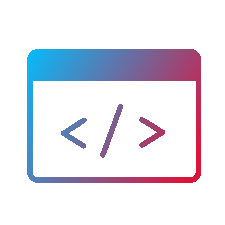
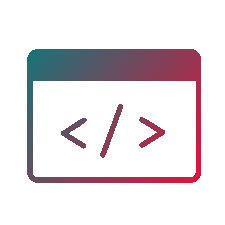
changed html gradient to match

diff --git a/index.html b/index.html
@@ -128,7 +128,7 @@
                     <ul class="service-list">
                         <li class="service-item">
                             <div class="service-icon-box">
-                                <img src="https://i.postimg.cc/4389jZkP/icon-design.png" alt="icon" width="40">
+                                <img src="https://github.com/Nuud1es/Nuud1es.github.io/blob/main/UnrealEngine.png?raw=true" alt="icon" width="60">
                             </div>  
 
                             <div class="service-content-box">
@@ -139,7 +139,7 @@
 
                         <li class="service-item">
                             <div class="service-icon-box">
-                                <img src="https://i.postimg.cc/ZqgqrqzG/icon-dev.png" alt="icon" width="40">
+                                <img src="https://github.com/Nuud1es/Nuud1es.github.io/blob/main/html.png?raw=true" alt="icon" width="40">
                             </div>
 
                             <div class="service-content-box">
@@ -150,7 +150,7 @@
 
                         <li class="service-item">
                             <div class="service-icon-box">
-                                <img src="https://i.postimg.cc/xjLdzYxZ/icon-app.png" alt="icon" width="40">
+                                <img src="https://github.com/Nuud1es/Nuud1es.github.io/blob/main/blender.png?raw=true" alt="icon" width="40">
                             </div>
 
                             <div class="service-content-box">
@@ -591,117 +591,23 @@
                         <li class="blog-post-item">
                             <a href="#">
                                     <figure class="blog-banner-box">
-                                        <img src="https://i.postimg.cc/DysCZrWs/blog-1.jpg" alt="Design conferences in 2024" loading="lazy">
+                                        <img src="https://github.com/Nuud1es/Nuud1es.github.io/blob/main/Blog1NewSite.png?raw=true" alt="Design conferences in 2024" loading="lazy">
                                     </figure>
 
                                 <div class="blog-content">
                                     <div class="blog-meta">
                                         <p class="blog-category">Design</p>
                                         <span class="dot"></span>
-                                        <time datetime="2024-02-23">Feb 23, 2024</time>
+                                        <time datetime="2024-02-23">Dec 05, 2024</time>
                                     </div>
 
-                                    <h3 class="h3 blog-item-title">Design conferences in 2024</h3>
-                                    <p class="blog-text">In 2024, several exciting design conferences are set to take place, offering opportunities for professionals and enthusiasts to connect, learn, and share innovative ideas.</p>
+                                    <h3 class="h3 blog-item-title">New website</h3>
+                                    <p class="blog-text">Welcome to the new website! I've decided to make a new one using the skill's i've developed using HTML and CSS, my old site is still live at sites.google.com/joerudling but won't be update. theres still some changes I would like to make, Im not overly happy with the Portfolio page but for now it shows what I have made</p>
                                 </div>
                             </a>
                         </li>
 
-                        <li class="blog-post-item">
-                            <a href="#">
-                                <figure class="blog-banner-box">
-                                    <img src="https://i.postimg.cc/QC7qFDMs/blog-2.jpg" alt="Best fonts every designer" loading="lazy">
-                                </figure>
-
-
-                                <div class="blog-content">
-                                    <div class="blog-meta">
-                                        <p class="blog-category">Design</p>
-                                        <span class="dot"></span>
-                                        <time datetime="2024-01-29">Jan 29, 2024</time>
-                                    </div>
-
-                                    <h3 class="h3 blog-item-title">Best fonts every designer</h3>
-                                    <p class="blog-text">When it comes to typography, choosing the right font is essential for effective design. In this article, I'll bring a brief overview of some of the best fonts that every designer should consider incorporating into their toolkit.</p>
-                                </div>
-                            </a>
-                        </li>
-
-                        <li class="blog-post-item">
-                            <a href="#">
-                                <figure class="blog-banner-box">
-                                    <img src="https://i.postimg.cc/W1T71QcL/blog-3.jpg" alt="Design digest #80" loading="lazy">
-                                </figure>
-
-                                <div class="blog-content">
-                                    <div class="blog-meta">
-                                        <p class="blog-category">Design</p>
-                                        <span class="dot"></span>
-                                        <time datetime="2023-12-20">Dec 20, 2023</time>
-                                    </div>
-
-                                    <h3 class="h3 blog-item-title">Design digest #80</h3>
-                                    <p class="blog-text">Hello, my friends. In this Design Digest, I'll show you a curated collection of the latest trends, insights, and innovations in the design world. This edition highlights key themes and discussions that are shaping the future of design.</p>
-                                </div>
-                            </a>
-                        </li>
-
-                        <li class="blog-post-item">
-                            <a href="#">
-                                <figure class="blog-banner-box">
-                                    <img src="https://i.postimg.cc/2S0n8yxh/blog-4.jpg" alt="2023 UI interactions" loading="lazy">
-                                </figure>
-
-                                <div class="blog-content">
-                                    <div class="blog-meta">
-                                        <p class="blog-category">Design</p>
-                                        <span class="dot"></span>
-                                        <time datetime="2023-11-29">Nov 29, 2023</time>
-                                    </div>
-
-                                    <h3 class="h3 blog-item-title">2023 UI interactions</h3>
-                                    <p class="blog-text">As we move into 2024, 2023 was marked by the rapidly evolution of the landscape of UI interactions, driven by advancements in technology and user expectations. Dive with me in this text to see the main areas changed in this year.</p>
-                                </div>
-                            </a>
-                        </li>
-
-                        <li class="blog-post-item">
-                            <a href="#">
-                                <figure class="blog-banner-box">
-                                    <img src="https://i.postimg.cc/YCCmVkw9/blog-5.jpg" alt="The forgotten art of spacing" loading="lazy">
-                                </figure>
-
-                                <div class="blog-content">
-                                    <div class="blog-meta">
-                                        <p class="blog-category">Design</p>
-                                        <span class="dot"></span>
-                                        <time datetime="2023-11-12">Nov 12, 2023</time>
-                                    </div>
-
-                                    <h3 class="h3 blog-item-title">The forgotten art of spacing</h3>
-                                    <p class="blog-text">In the realm of design, spacing is often an overlooked yet crucial element that can significantly impact the overall aesthetic and functionality of a composition. This post will emphasize the importance of white space, margins, and padding in creating visually appealing and effective designs.</p>
-                                </div>
-                            </a>
-                        </li>
-
-                        <li class="blog-post-item">
-                            <a href="#">
-                                <figure class="blog-banner-box">
-                                    <img src="https://i.postimg.cc/zBCBvP16/blog-6.jpg" alt="Design digest #79" loading="lazy">
-                                </figure>
-
-                                <div class="blog-content">
-                                    <div class="blog-meta">
-                                        <p class="blog-category">Design</p>
-                                        <span class="dot"></span>
-                                        <time datetime="2023-10-20">Oct 20, 2023</time>
-                                    </div>
-
-                                    <h3 class="h3 blog-item-title">Design digest #79</h3>
-                                    <p class="blog-text">Hi, my friends. In this Design Digest I'll focus in the tools and resources that we use daily in our projects. Also, I'll include examples of software recommendations, online courses, and design communities that foster collaboration and learning.</p>
-                                </div>
-                            </a>
-                        </li>
+                        
                     </ul>
                 </section>
             </article>

diff --git a/style.css b/style.css
@@ -6,7 +6,8 @@
     --bg-gradient-yellow1: linear-gradient(to bottom right, hsl(45, 100%, 71%) 0%, hsla(36, 100%, 69%, 0) 50%);
     --bg-gradient-yellow2: linear-gradient(135deg, hsla(45, 100%, 71%, .251) 0%, hsla(35, 100%, 68%, 0) 59.86%), hsl(240, 2%, 13%);
     --border-gradient-onyx: linear-gradient(to bottom right, hsl(0, 0%, 25%) 0%, hsla(0, 0%, 25%, 0) 50%);
-    --text-gradient-yellow: linear-gradient(to right, hsl(45, 100%, 72%), hsl(35, 100%, 68%));
+    --text-gradient-yellow: linear-gradient(to left
+    , hsl(0, 69%, 51%), hsl(180 100% 25.1%));
 
     --jet: hsl(0, 0%, 22%);
     --onyx: hsl(240, 1%, 17%);
@@ -15,12 +16,15 @@
     --smoky-black: hsl(0, 0%, 7%);
     --white1: hsl(0, 0%, 100%);
     --white2: hsl(0, 0%, 98%);
-    --orange-yellow-crayola: hsl(45, 100%, 72%);
+    --orange-yellow-crayola: hsl(0, 69%, 51%);
     --vegas-gold: hsl(45, 54%, 58%);
     --light-gray: hsl(0, 0%, 84%);
     --light-gray70: hsla(0, 0%, 84%, .7);
     --bittersweet-shimmer: hsl(0, 43%, 51%);
-
+    --teal: hsl(180 100% 25.1%);
+    --crimson: hsl(348 83.3% 47.1%);
+    
+    
     --ff-poppins: 'Poppins', sans-serif;
 
     --fs1: 24px;
@@ -119,7 +123,7 @@ main {
     justify-content: center;
     align-items: center;
     font-size: 16px;
-    color: var(--orange-yellow-crayola);
+    color: var(--teal);
     box-shadow: var(--shadow1);
     z-index: 1;
 }
@@ -645,7 +649,7 @@ article { display: none; }
 }
 
     .timeline-list span {
-        color: var(--vegas-gold);
+        color: var(--teal);
         font-weight: var(--fw400);
         line-height: 1.6;
     }
@@ -1014,7 +1018,7 @@ textarea.form-input {
     position: relative;
     width: 100%;
     background: var(--border-gradient-onyx);
-    color: var(--orange-yellow-crayola);
+    color: var(--orange-yellow-crayola); 
     display: flex;
     justify-content: center;
     align-items: center;
@@ -1310,7 +1314,7 @@ textarea.form-input {
     }
 
         .filter-item button:hover { color: var(--light-gray70); }
-        .filter-item button.active { color: var(--orange-yellow-crayola); }
+        .filter-item button.active { color: var(--crimson); }
 
     .project-list, .blog-posts-list { grid-template-columns: 1fr 1fr; }
 
@@ -1464,7 +1468,7 @@ textarea.form-input {
 
     h1 {
         font-size: 72px;
-        background: -webkit-linear-gradient(135deg, deepskyblue, deepskyblue);
+        background: -webkit-linear-gradient(135deg, crimson, teal);
         -webkit-background-clip: text;
         -webkit-text-fill-color: transparent;
     } 
